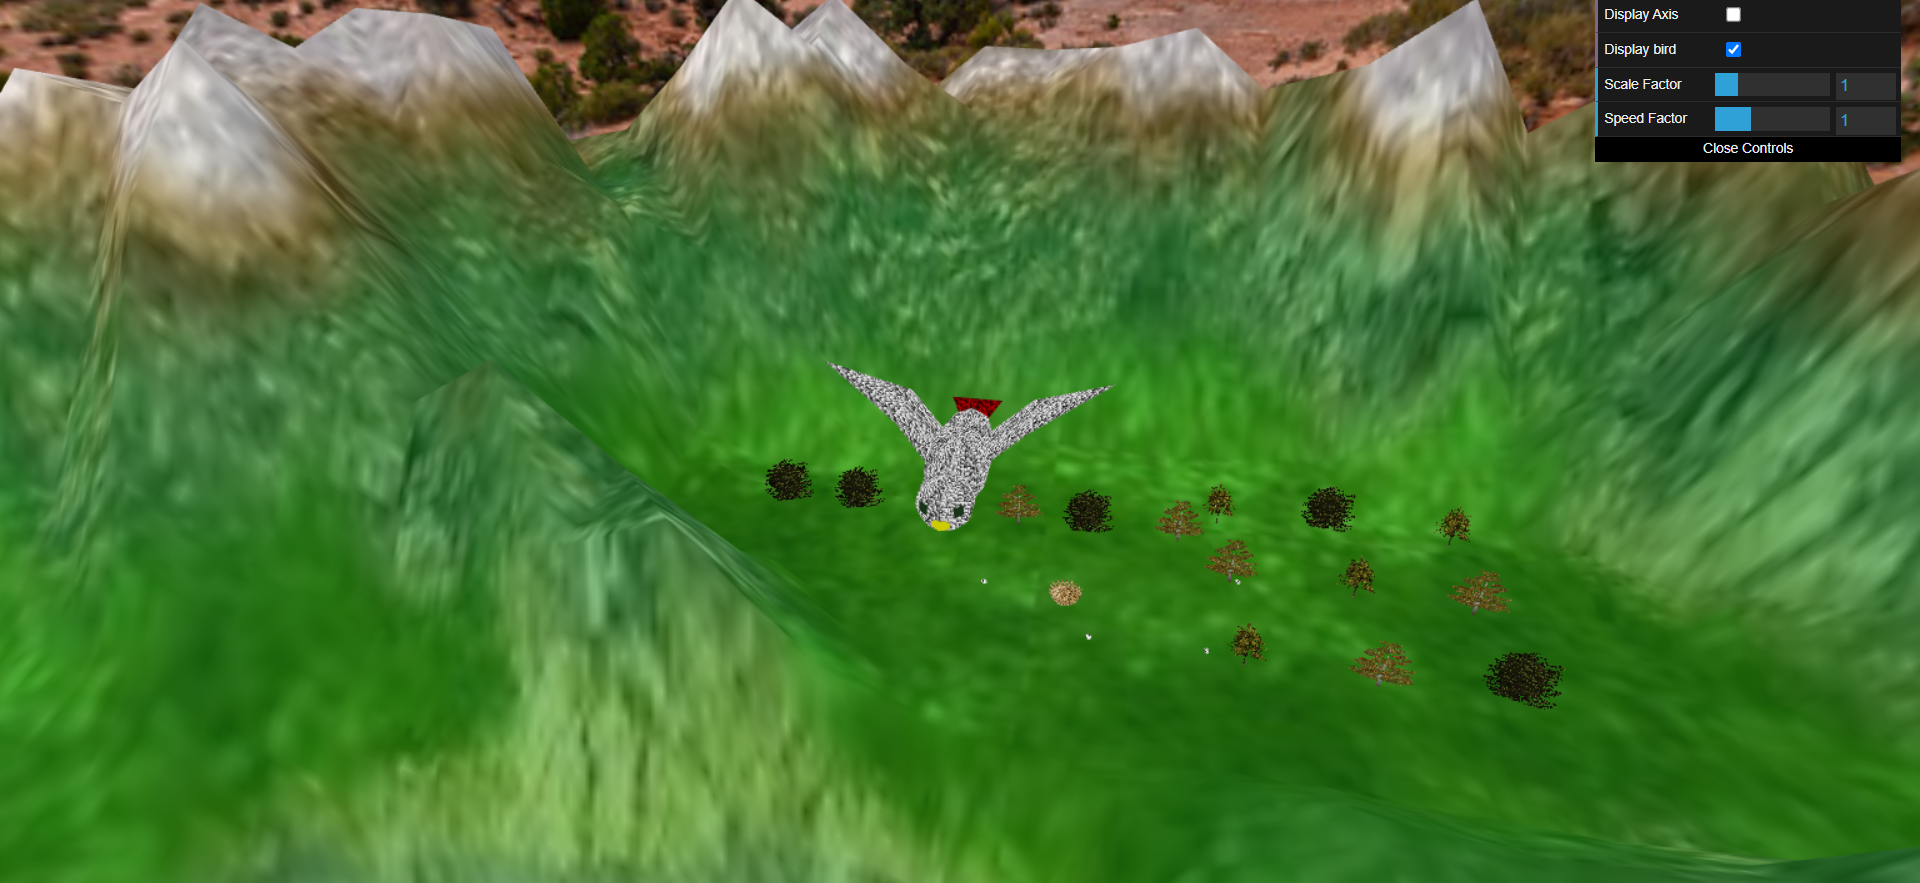
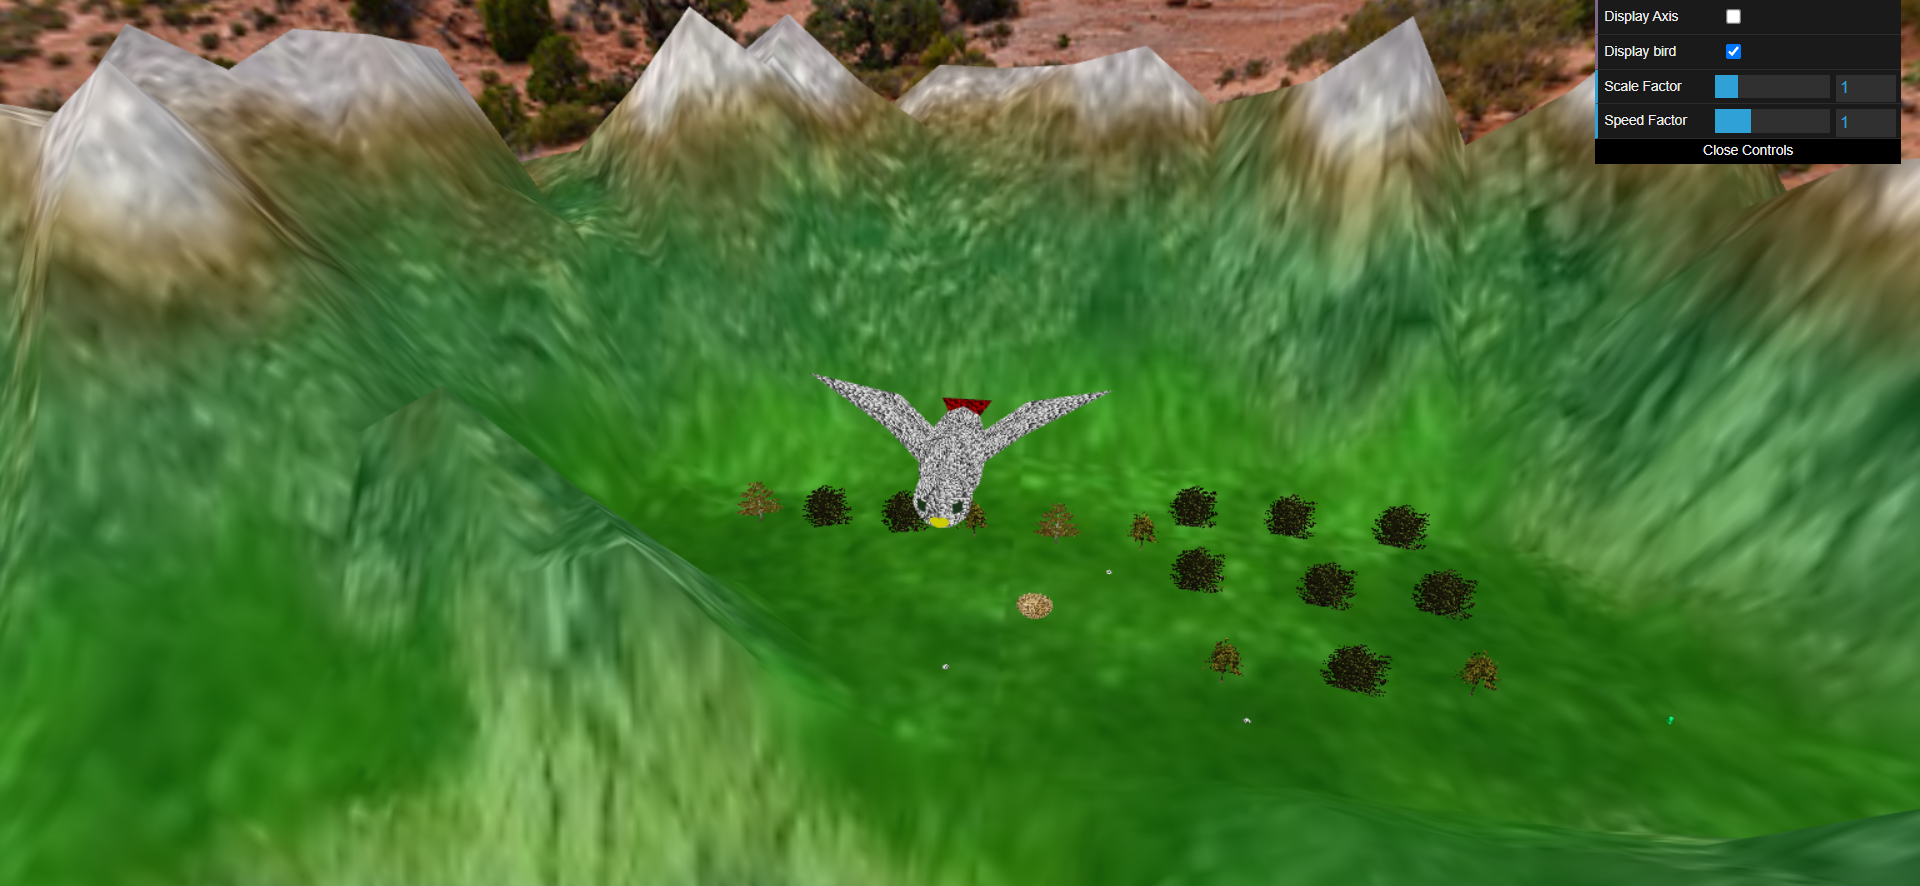
update final screenshot and remove imports

diff --git a/project/MyTreeGroupPatch.js b/project/MyTreeGroupPatch.js
@@ -1,4 +1,4 @@
-import {CGFobject, CGFscene, CGFcamera, CGFaxis, CGFappearance, CGFshader, CGFtexture } from "../lib/CGF.js";
+import {CGFobject} from "../lib/CGF.js";
 import { MyBillboard } from "./MyBillboard.js";
 
 export class MyTreeGroupPatch extends CGFobject {

diff --git a/project/MyTreeRowPatch.js b/project/MyTreeRowPatch.js
@@ -1,4 +1,4 @@
-import {CGFobject, CGFscene, CGFcamera, CGFaxis, CGFappearance, CGFshader, CGFtexture } from "../lib/CGF.js";
+import {CGFobject} from "../lib/CGF.js";
 import { MyBillboard } from "./MyBillboard.js";
 
 export class MyTreeRowPatch extends CGFobject {

diff --git a/project/MyBillboard.js b/project/MyBillboard.js
@@ -1,4 +1,4 @@
-import {CGFobject, CGFappearance, CGFtexture, CGFshader} from '../lib/CGF.js';
+import {CGFobject, CGFappearance, CGFtexture} from '../lib/CGF.js';
 import { MyQuad } from "./MyQuad.js";
 
 /**

diff --git a/project/MyUnitCubeQuad.js b/project/MyUnitCubeQuad.js
@@ -1,4 +1,4 @@
-import {CGFobject,CGFappearance,CGFtexture} from '../lib/CGF.js';
+import {CGFobject,CGFappearance} from '../lib/CGF.js';
 import {MyQuad } from "./MyQuad.js"
 
 /**
